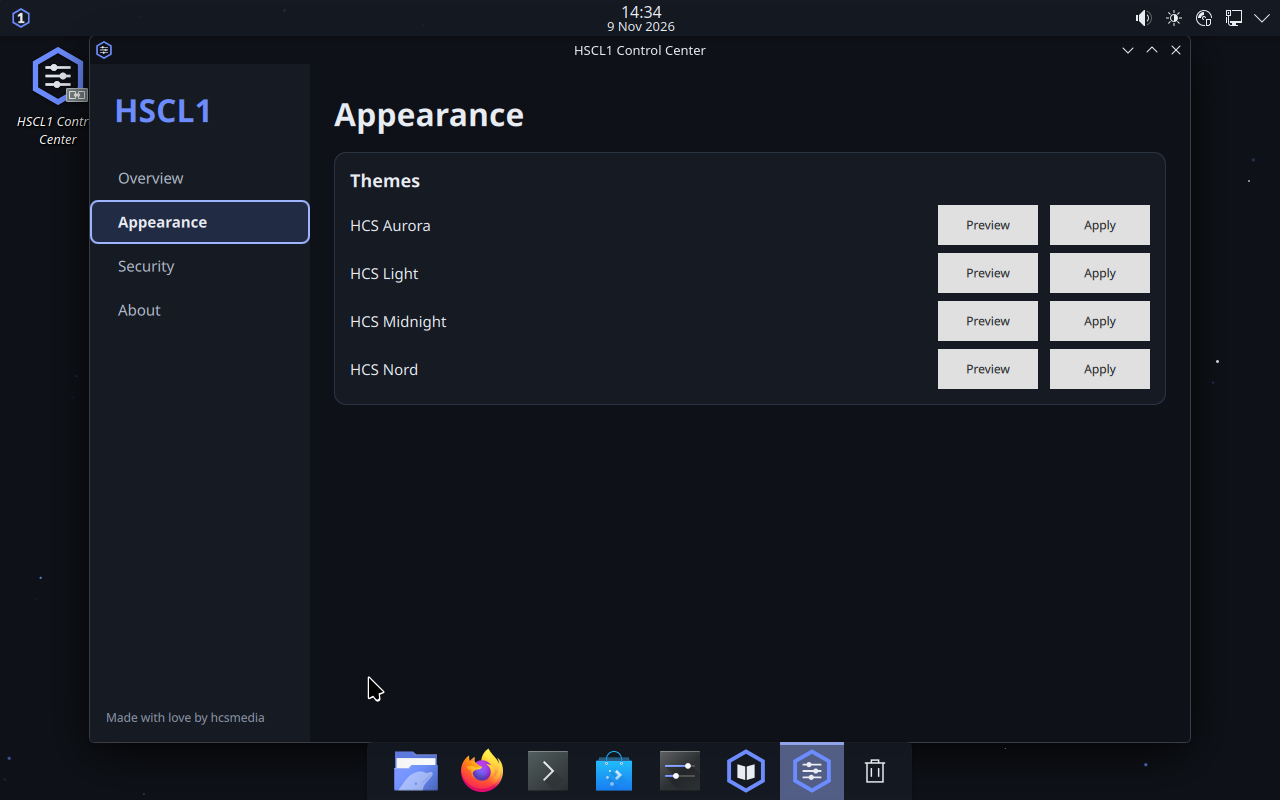
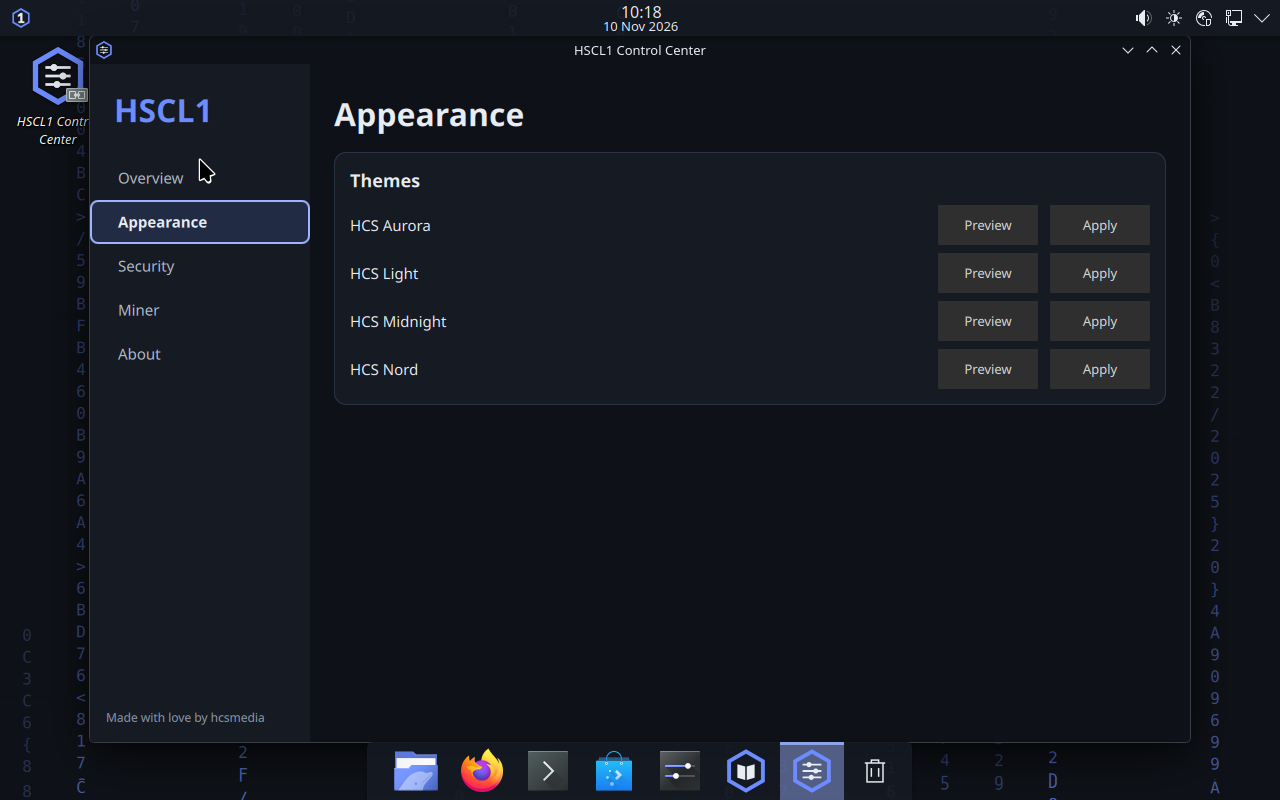
feat(cli): name the Secure Boot case in security status too; refresh showcase from the candidate

diff --git a/cli/hscl/src/security.rs b/cli/hscl/src/security.rs
@@ -305,6 +305,21 @@ pub fn parse_secure_boot(bytes: &[u8]) -> State {
     }
 }
 
+/// Why the Secure Boot state is unknown, in one short phrase for the status table.
+pub fn secure_boot_unknown_note() -> &'static str {
+    secure_boot_unknown_note_at(Path::new("/sys/firmware"))
+}
+
+pub fn secure_boot_unknown_note_at(firmware_root: &Path) -> &'static str {
+    if !firmware_root.join("efi").is_dir() {
+        return "unknown (legacy BIOS boot)";
+    }
+    match fs::read_dir(firmware_root.join("efi/efivars")) {
+        Ok(_) => "unknown (no SecureBoot variable; Secure Boot off)",
+        Err(_) => "unknown (efivars not readable)",
+    }
+}
+
 pub fn secure_boot() -> State {
     let dir = Path::new("/sys/firmware/efi/efivars");
     let Ok(rd) = fs::read_dir(dir) else {
@@ -461,7 +476,13 @@ pub fn render(s: &Security) -> String {
         "AppArmor enabled:   {}\nUFW enabled:        {}\nSecure Boot:        {}\nLUKS volumes open:  {}\nForbidden APT repos: {}",
         st(s.apparmor),
         st(s.firewall_ufw_enabled),
-        st(s.secure_boot),
+        if s.secure_boot == State::Unknown {
+            // "unknown (not readable)" was wrong in a UEFI guest with efivars and no SecureBoot variable
+            // (measured 2026-11-10); say which of the three cases it is.
+            secure_boot_unknown_note()
+        } else {
+            st(s.secure_boot)
+        },
         s.luks_mapped_devices.map_or("unknown".into(), |n| n.to_string()),
         if s.forbidden_apt_sources.is_empty() {
             "none".into()
@@ -500,6 +521,28 @@ mod tests {
         let (enforce, complain) = parse_apparmor_profiles(sample);
         assert_eq!(enforce, 2);
         assert_eq!(complain, 1);
+    }
+
+    #[test]
+    fn the_status_table_names_the_secure_boot_case_instead_of_claiming_nothing_is_readable() {
+        use std::fs;
+        let tmp = tempfile::tempdir().unwrap();
+        assert!(secure_boot_unknown_note_at(tmp.path()).contains("legacy BIOS"));
+        fs::create_dir_all(tmp.path().join("efi/efivars")).unwrap();
+        assert!(secure_boot_unknown_note_at(tmp.path()).contains("no SecureBoot variable"));
+        fs::remove_dir_all(tmp.path().join("efi/efivars")).unwrap();
+        assert!(secure_boot_unknown_note_at(tmp.path()).contains("not readable"));
+
+        let s = Security {
+            apparmor: State::Yes,
+            firewall_ufw_enabled: State::Yes,
+            secure_boot: State::Unknown,
+            luks_mapped_devices: Some(0),
+            forbidden_apt_sources: Vec::new(),
+        };
+        let text = render(&s);
+        assert!(text.contains("Secure Boot:        unknown ("), "{text}");
+        assert!(!text.contains("unknown (not readable)\nLUKS"), "{text}");
     }
 
     #[test]

diff --git a/docs/BUILD_LOG.md b/docs/BUILD_LOG.md
@@ -1996,8 +1996,28 @@ instead of pretending. Then, inside the live session:
 | `podman info` `.Host.Security.Rootless` | `true` (the second field of my Go template was wrong for 5.7, so that line errored - cosmetic) |
 
 **Not yet verified:** the two-phase Kali toolset build from a digest-pinned official image, and therefore any
-tool run inside the lab container. The `hscl lab` code path that builds that image was not executed in a guest;
-Q-18 stays open for exactly that remainder.
+tool run inside the lab container. The `hscl lab` code path that builds that image was not executed in a
+guest; Q-18 stays open for exactly that remainder.
+
+### Showcase refreshed from the current candidate (2026-11-10)
+
+One 4 GB run (`showcase-green.json`) captured the Control Center with keyboard navigation through the rail
+(the rail is `keyNavigationEnabled`, so no coordinate guessing) and the terminal tracks. Six images replaced,
+all with `source_iso` in the manifest:
+
+| Image | What it now shows |
+|---|---|
+| `04_control_center_overview` | live system data, health 6 passed / 0 failed / 1 skipped |
+| `05_control_center_appearance` | the four HCS themes with Preview/Apply |
+| `06_control_center_security` | the honest Secure Boot line, in the GUI |
+| `20_control_center_miner` | **new**: the Miner page, saying "No device configured" instead of inventing values |
+| `07_control_center_about` | About page |
+| `16_terminal_privacy_security` | `privacy status` with the session line, `security status`, and `lab status` reporting `podman: NOT installed` |
+
+While looking at that terminal capture, `hscl security status` turned out to still print
+`Secure Boot: unknown (not readable)` - the same misleading sentence I had fixed in `doctor` only.
+`security::render` now names the case too (`legacy BIOS boot` / `no SecureBoot variable; Secure Boot off` /
+`efivars not readable`), with a unit test; on this Windows host it prints `unknown (legacy BIOS boot)`.
 
 ### LUKS2 install and unlock: VM-VERIFIED (2026-11-10)
 
